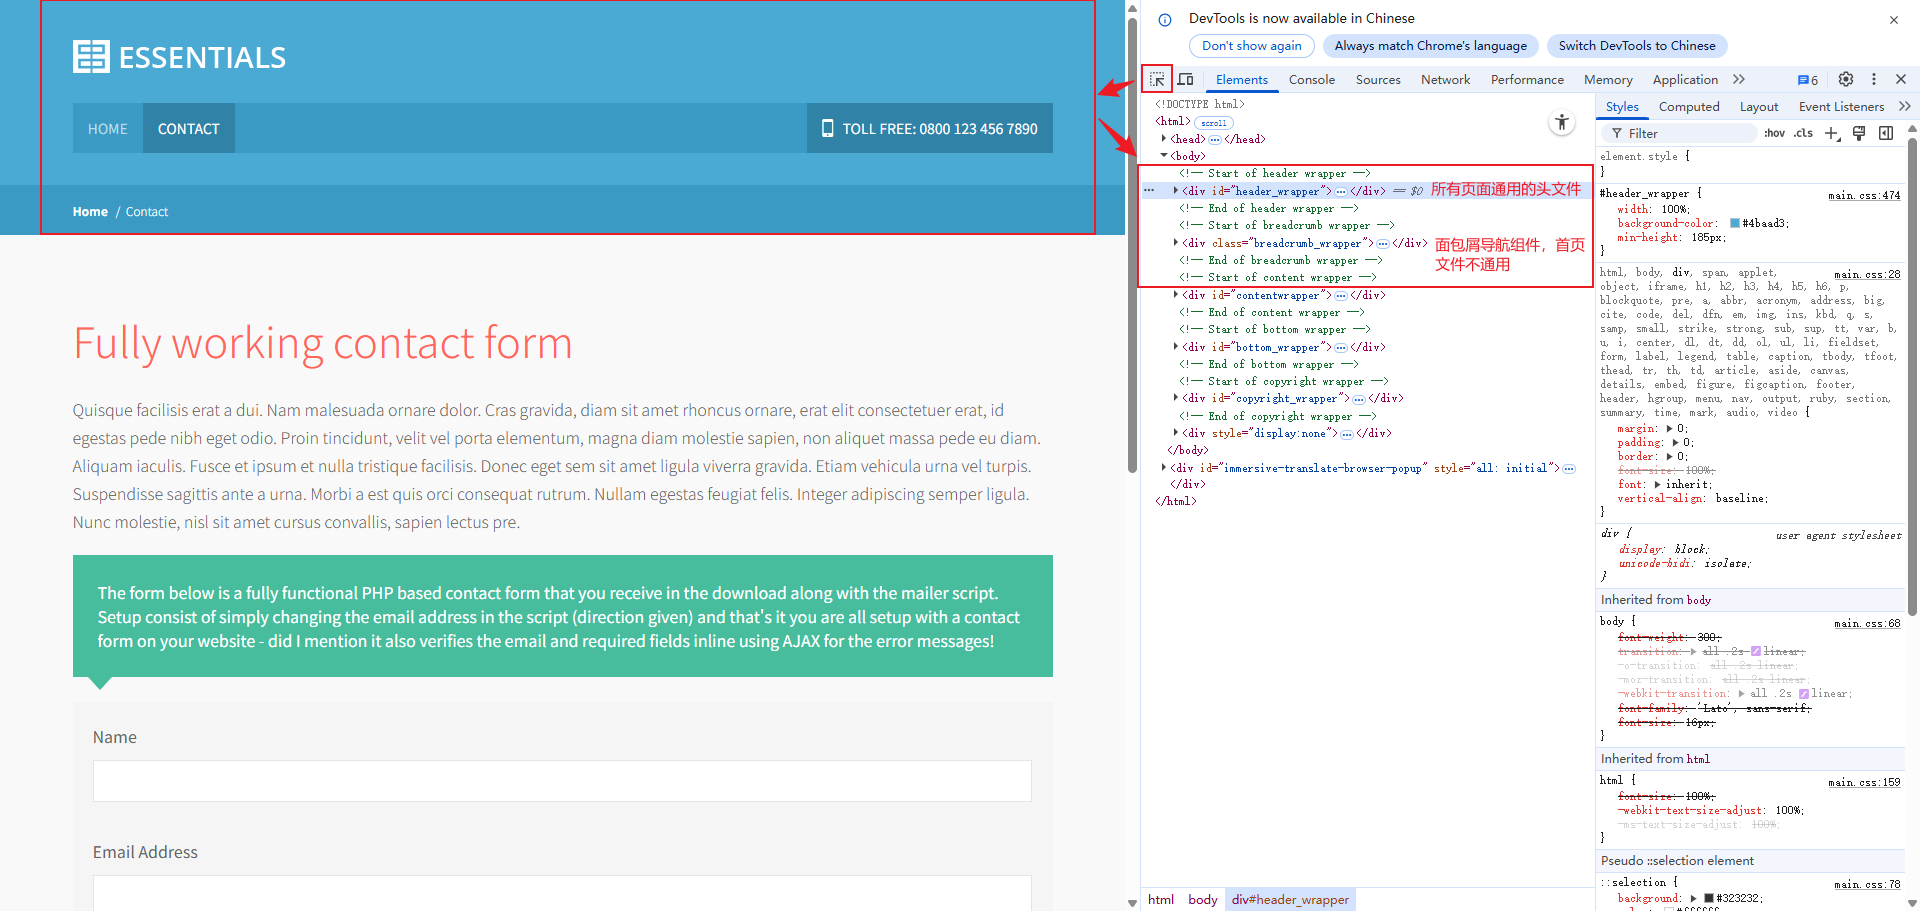
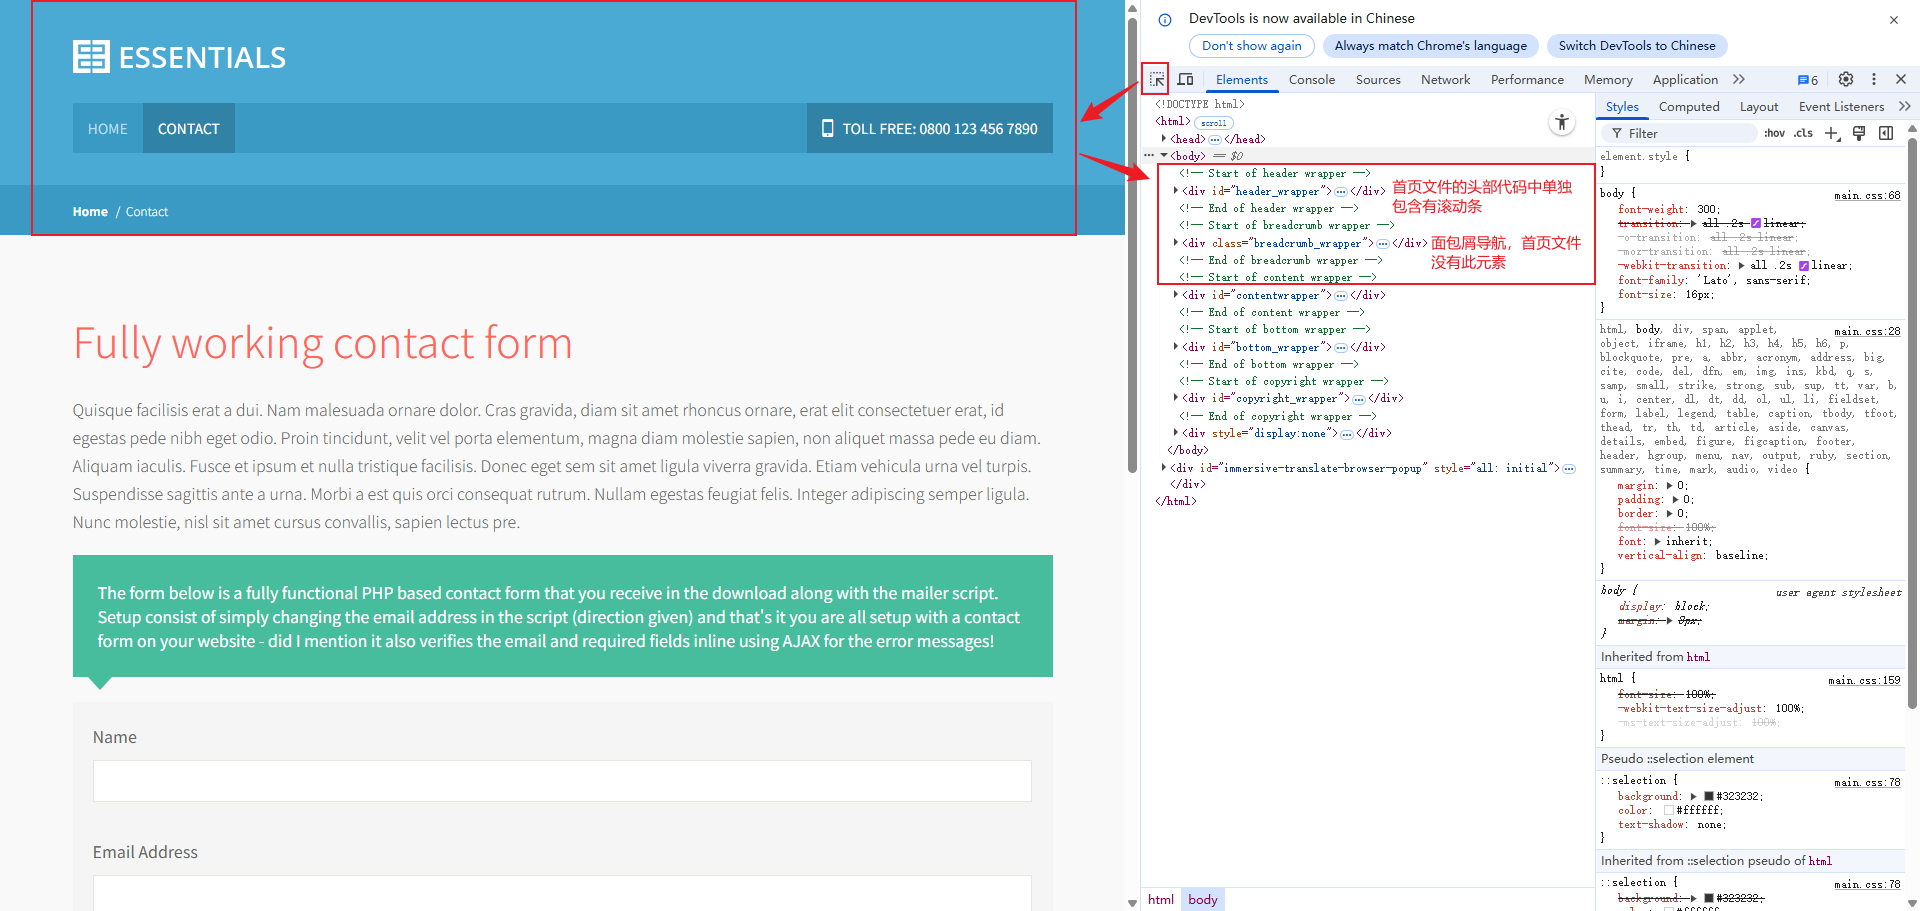
20260224

diff --git a/003.安全开发/001.PHP基础.md b/003.安全开发/001.PHP基础.md
@@ -2624,86 +2624,203 @@ echo $test;
 /demo02    //网页根目录
 ├── 解压后的模板文件
 ├── common    //通用文件存放目录
-│     ├── footer.php    //尾部区域文件
-│     ├── header.php    //头部区域文件
+│     ├── footer.php    //Web页面的尾部区域文件
+│     ├── header.php    //Web页面的头部区域文件
+│     ├── head.php      //HTML的head标签代码文件
 ```
 
 #### 16.3.2 分离通用文件——尾部
 
 1. 通过浏览器选择查看Web页面尾部区域的代码内容
 
-  ![文件包含示例-1](../image/Part_3/文件包含示例-1.png)
+    ![文件包含示例-1](../image/Part_3/文件包含示例-1.png)
 
-2. 从模板的index.html源码文件中移除这部分代码，并写入footer.php文件中
+2. 在模板文件的index.html源码文件中，从<body>标签内剪切这部分代码，并写入footer.php文件中
 
-  ![文件包含示例-2](../image/Part_3/文件包含示例-2.png)
+    ![文件包含示例-2](../image/Part_3/文件包含示例-2.png)
 
-  ```php
-  # /demo02/common/footer.php文件（未展开）
-  <!-- Start of bottom wrapper -->
-  <div id="bottom_wrapper"...><!-- End of bottom wrapper -->
+    ```php
+    # /demo02/common/footer.php文件（未展开）
+    <!-- Start of bottom wrapper -->
+    <div id="bottom_wrapper"...><!-- End of bottom wrapper -->
 
-  <!-- Start of copyright wrapper -->
-  <div id="copyright_wrapper"...><!-- End of copyright wrapper -->
+    <!-- Start of copyright wrapper -->
+    <div id="copyright_wrapper"...><!-- End of copyright wrapper -->
 
-  <div style="display:none"...>
-  ```
+    <div style="display:none"...>
+    ```
 
 3. 修改模板文件下的所有HTML文件，统一修改为PHP文件，并统一在移除尾部代码的位置添加include语法。以index.html文件为例，重命名index.html为index.php
 
-  ```php
-  # /demo02/index.php
-  <!DOCTYPE HTML>
-  
-  <html>
-  
-  <body>
-  
-     <!-- Start of header wrapper -->
-     <div id="header_wrapper"...><!-- End of header wrapper -->
-  
-     <!-- Start of message wrapper -->
-     <div id="message_wrapper"...><!-- End of message wrapper -->
-  
-     <!-- Start of content wrapper -->
-     <div id="contentwrapper"...><!-- End of content wrapper -->
-  
-     <?php
-     include "./common/footer.php";
-     ?>
-  </body>
-  
-  </html>
-  ```
+    ```php
+    # /demo02/index.php
+    <!DOCTYPE HTML>
+    
+    <html>
+    
+    <body>
+    
+        <!-- Start of header wrapper -->
+        <div id="header_wrapper"...><!-- End of header wrapper -->
+    
+        <!-- Start of message wrapper -->
+        <div id="message_wrapper"...><!-- End of message wrapper -->
+    
+        <!-- Start of content wrapper -->
+        <div id="contentwrapper"...><!-- End of content wrapper -->
+    
+        <?php
+        include "./common/footer.php";
+        ?>
+    </body>
+    
+    </html>
+    ```
 
-  [index.html] -> [重构] -> [重命名];使用IDE对模板文件重命名时需要注意勾选“搜索索引”和“在注释和字符中搜索”，勾选两者后在重命名index.html文件时，其它代码文件中有引用index.html文件的部分，全部都会统一自动替换为引用新的index.php文件
+    [index.html] -> [重构] -> [重命名];使用IDE对模板文件重命名时需要注意勾选“搜索索引”和“在注释和字符中搜索”，勾选两者后在重命名index.html文件时，其它代码文件中有引用index.html文件的部分，全部都会统一自动替换为引用新的index.php文件
 
-  ![文件包含示例-3](../image/Part_3/文件包含示例-3.png)
+    ![文件包含示例-3](../image/Part_3/文件包含示例-3.png)
 
 #### 16.3.3 分离通用文件——头部
 
-头部与尾部的区别在于，模板代码文件中所有页面的尾部都是相同的，但不同页面的头部之间存在差异。首页文件（index.php）单独使用了“滚动条”（slider），而除了首页文件以外，其它页面文件中都使用了“面包屑导肮”（breadcrumb_wrapper），因此头部通用代码文件需要针对index.php文件做特殊处理
+尾部通用代码的分离比较简单，所有的尾部通用代码都在\<body\>标签下，直接复制\<div\>标签中的代码内容即可实现通用。头部通用文件的难点在于找到不同Web页面之间的代码差异，头部通用代码就不再仅限于\<body\>标签，\<head\>标签内的代码也需要兼顾处理，因为不同Web页面之间的头部代码都存在差异。
 
-1. 通过浏览器选择查看Web页面尾部区域的代码内容
+在\<body\>标签下，各个Web页面中最明显的差异在于，首页文件（index.php）单独使用了“滚动条”（slider），而除了首页文件以外，其它Web页面文件中都使用了“面包屑导肮”（breadcrumb_wrapper），因此头部通用代码文件需要针对index.php文件做特殊处理。除此以外，每个页面中的<head>标签下都有一些细微的差异，都需要单独进行处理。
 
-  ![文件包含示例-4](../image/Part_3/文件包含示例-4.png)
+由于头部通用代码同时涉及到\<head\>和\<body\>标签的代码，在HTML中\<head\>标签本身也被称为“头部”，为了便于区分，下文中所有的“头部通用代码”均指\<body\>标签部分的代码、head代码指\<head\>标签部分的代码。
+
+1. 通过浏览器选择查看Web页面头部区域的代码内容
+
+    ![文件包含示例-4](../image/Part_3/文件包含示例-4.png)
 
 2. 从模板的index.php文件中移除这部分代码，并写入header.php文件中
 
+    `/demo02/common/header.php`文件（未展开）
 
+    ```php
+    <!-- Start of header wrapper -->
+    <div id="header_wrapper"...><!-- End of header wrapper -->
+    ```
 
+    `/demo02/index.php`首页文件（未展开）
 
+    ```php
+    <!DOCTYPE HTML>
+    
+    <html>
+    
+    <body>
+    
+        <?php
+        include "./common/header.php";
+        ?>
+    
+        <!-- Start of message wrapper -->
+        <div id="message_wrapper"...><!-- End of message wrapper -->
+    
+        <!-- Start of content wrapper -->
+        <div id="contentwrapper"...><!-- End of content wrapper -->
+    
+        <?php
+        include "./common/footer.php";
+        ?>
+    </body>
+    
+    </html>
+    ```
 
+1. 从其它代码文件中移除面包屑导航代码，并追加写入header.php文件中。以contact.php文件为例
 
+    `/demo02/common/header.php`文件（未展开）
 
+    ```php
+    # header_wrapper是从index.php文件中剪切
+    <!-- Start of header wrapper -->
+    <div id="header_wrapper"...><!-- End of header wrapper -->
 
+    # breadcrumb_wrapper是从contact.php文件中剪切
+    <!-- Start of breadcrumb wrapper -->
+    <div class="breadcrumb_wrapper"...><!-- End of breadcrumb wrapper -->
+    ```
 
+    `/demo02/contact.php`文件（未展开）
 
+    ```php
+    <!DOCTYPE HTML>
+    
+    <html>
+    
+    <body>
+    
+        <?php
+        include "./common/header.php";
+        ?>
+    
+        <!-- Start of content wrapper -->
+        <div id="contentwrapper"...><!-- End of content wrapper -->
+    
+        <?php
+        include "./common/footer.php";
+        ?>
+    </body>
+    
+    </html>
+    ```
 
+    此时访问index.php首页，可以看到相比较模板原文件的Web页面，修改后的index.php页面多了一个面包屑导航。
 
+    ![文件包含示例-5](../image/Part_3/文件包含示例-5.png)
 
+    同时，从index.php文件剪切到header.php文件的滚动条代码，在contact等其它页面中已经存在代码了，但从Web页面看上去似乎没有生效，这可能是JS渲染的问题导致的。
 
+    ![文件包含示例-6](../image/Part_3/文件包含示例-6.png)
 
+4. 对比index.php与contact.php文件的head代码，观察两者差异
+
+    查看index.php文件差异（仅展示差异处）
+
+    ```php
+    <!DOCTYPE HTML>
+    <html>
+    <head>
+    ...
+    <title>Business Essentials</title>    //第32行，每个Web页面的标题不同
+    ...
+    <script type="text/javascript">       //第66行
+        jQuery(window).load(function () {
+
+        jQuery('.slider').flexslider();    //只有index.php文件中存在这一行，这就是其它页面在引用通用代码后，仍未正常显示滚动条的原因
+        ...
+    </script>
+    ...
+    </head>
+    <body>
+    </body>
+    </html>
+    ```
+
+    查看contact.php文件差异（仅展示差异处）
+
+    ```php
+    <!DOCTYPE HTML>
+    <html>
+    <head>
+    ...
+    <title>Business Essentials</title>    //第31行，每个Web页面的标题不同
+    ...
+    <script type="text/javascript">       //第65行
+        ...
+        jQuery('form#contact_form').submit(function () {...});    //contact.php页面独有的表单
+        ...
+    </script>
+    ...
+    </head>
+    <body>
+    </body>
+    </html>
+    ```
+
+5. 将index.php文件中的\<head\>标签下的所有代码剪切到head.php文件中
 
 
 

diff --git a/003.安全开发/002.PHP原生开发.md b/003.安全开发/002.PHP原生开发.md
@@ -429,8 +429,7 @@ demo01/
 
 1、客户端向服务器发送HTTP请求。
 2、服务器检查请求头中是否包含cookie信息。
-3、如果请求头中包含cookie信息，则服务器使用该cookie来识别客户端，否则服务器
-将生成一个新的cookie。
+3、如果请求头中包含cookie信息，则服务器使用该cookie来识别客户端，否则服务器将生成一个新的cookie。
 4、服务器在响应头中设置cookie信息并将其发送回客户端
 5、客户端接收响应并将cookie保存在本地。
 6、当客户端发送下一次HTTP请求时，它会将cookie信息附加到请求头中。
